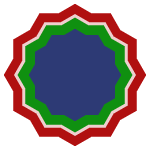
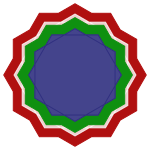
revisão de cores do logotipo

diff --git a/wingene-logo.html b/wingene-logo.html
@@ -8,7 +8,6 @@ title: "Wingene: os logotipos"
     <script src="gif.js"></script>
     <script type="application/javascript">
         /* 
-        - Fatores de aumento baseados em senos de números primos para harmonia natural.
         - Red (12/5): Valores (Base Ancestral)
         - Yellow (12/4): Imperfeições (Alerta)
         - Green (12/3): Decisões (Ação)
@@ -32,6 +31,8 @@ title: "Wingene: os logotipos"
         var angulo4 = 53;
         var angulo3 = 61;
         var angulo2 = 67;
+        // Fatores de aumento baseados no acorde de Dó Maior: CEGc.
+        // com c sendo o maior tamanho = 1 (12/5)
         var tamanhoFinal4 = calcSize(-5);
         var tamanhoFinal3 = calcSize(-8);
         var tamanhoFinal2 = calcSize(-12);
@@ -56,6 +57,7 @@ title: "Wingene: os logotipos"
             drawStar(ctx, 12, 5, size, 0, 1, red, center);
             drawStar(ctx, 12, 4, size * tamanhoFinal4, 15, 4, yellow, center);
             drawStar(ctx, 12, 3, size * tamanhoFinal3, 0, 3, green, center);
+            drawStar(ctx, 12, 2, size * tamanhoFinal2, 15, 2, "#ffffff", center);
             drawStar(ctx, 12, 2, size * tamanhoFinal2, 15, 2, blue, center, opacidadeAzul);
         }
         function downloadSVG() {
@@ -65,6 +67,7 @@ title: "Wingene: os logotipos"
             svg += '<path d="' + getStarPath(12, 5, size, 0, 1, center) + '" stroke="'+red+'" fill="'+red+'" opacity="1" />';       
             svg += '<path d="' + getStarPath(12, 4, size * tamanhoFinal4, 15, 4, center) + '" stroke="'+yellow+'" fill="'+yellow+'" opacity="1" />';
             svg += '<path d="' + getStarPath(12, 3, size * tamanhoFinal3, 0, 3, center) + '" stroke="'+green+'" fill="'+green+'" opacity="1" />';
+                svg += '<path d="' + getStarPath(12, 2, size * tamanhoFinal2, 15, 2, center) + '" stroke="#ffffff" fill="#ffffff" opacity="1" />';
             svg += '<path d="' + getStarPath(12, 2, size * tamanhoFinal2, 15, 2, center) + '" stroke="'+blue+'" fill="'+blue+'" opacity="'+opacidadeAzul+'" />';
             svg += '</svg>';
             var blob = new Blob([svg], {type: "image/svg+xml"});
@@ -87,6 +90,7 @@ title: "Wingene: os logotipos"
             drawStar(ctx, 12, tipoEstrelaSimples, size * fator5, 0, repeticaoEstrelaSimples, red, center);
             drawStar(ctx, 12, tipoEstrelaSimples, size * fator4, 0, repeticaoEstrelaSimples, white, center);
             drawStar(ctx, 12, tipoEstrelaSimples, size * fator3, 0, repeticaoEstrelaSimples, green, center);
+            drawStar(ctx, 12, tipoEstrelaSimples, size * fator2, 0, repeticaoEstrelaSimples, "#ffffff", center);
             drawStar(ctx, 12, tipoEstrelaSimples, size * fator2, 0, repeticaoEstrelaSimples, blue, center, opacidadeAzul);
             
             //drawStar(ctx, 12, 2, size * fator10, 0, 2, blue, center);
@@ -98,6 +102,7 @@ title: "Wingene: os logotipos"
             svg += '<path d="' + getStarPath(12, tipoEstrelaSimples, size * fator5, 0, repeticaoEstrelaSimples, center) + '" stroke="'+red+'" fill="'+red+'" />';       
             svg += '<path d="' + getStarPath(12, tipoEstrelaSimples, size * fator4, 0, repeticaoEstrelaSimples, center) + '" stroke="'+white+'" fill="'+white+'" />';
             svg += '<path d="' + getStarPath(12, tipoEstrelaSimples, size * fator3, 0, repeticaoEstrelaSimples, center) + '" stroke="'+green+'" fill="'+green+'" />';
+            svg += '<path d="' + getStarPath(12, tipoEstrelaSimples, size * fator2, 0, repeticaoEstrelaSimples, center) + '" stroke="#ffffff" fill="#ffffff" />';
             svg += '<path d="' + getStarPath(12, tipoEstrelaSimples, size * fator2, 0, repeticaoEstrelaSimples, center) + '" stroke="'+blue+'" fill="'+blue+'" opacity="'+opacidadeAzul+'" />';
             svg += '</svg>';
             var blob = new Blob([svg], {type: "image/svg+xml"});
@@ -226,6 +231,7 @@ title: "Wingene: os logotipos"
     // 3. Desenho das subestrelas animadas
     drawStar(ctx, 12, 4, size * s4, 15, 4, yellow, center);
     drawStar(ctx, 12, 3, size * s3, 0, 3, green, center);
+    drawStar(ctx, 12, 2, size * s2, 15, 2, "#ffffff", center);
     drawStar(ctx, 12, 2, size * s2, 15, 2, blue, center, opacidadeAzul);
 }
 

diff --git a/geometria/geometria-e-o-metodo-vida.md b/geometria/geometria-e-o-metodo-vida.md
@@ -21,7 +21,7 @@ Esse é o logotipo padrão da Wingene:
 
 <img src="/wingene.svg" alt="Logotipo padrão da Wingene" width="150" height="150">
 
-Ele representa os quatro eixos do acróstico [VIDA](/wingene/o-metodo-vida-a-wingene-em-pratica.html), sendo formado pelo dodecagrama e seus anéis poligonais, com tamanho aumentado. Cada estrela é preenchida com uma cor e sobreposta em sequência conforme abaixo:
+Ele representa os quatro eixos do acróstico [VIDA](/wingene/o-metodo-vida-a-wingene-em-pratica.html), sendo formado pelo dodecagrama e seus anéis poligonais, com tamanho aumentado de acordo com as frequências de um acorde de dó maior (CEGc). Cada estrela é preenchida com uma cor e sobreposta em sequência conforme abaixo:
 
 1. {12/5} - Vermelho: os valores éticos. O dodecagrama.
 
@@ -51,7 +51,7 @@ Para um ícone em tamanho reduzido, esse logotipo não é adequado. Então, foi 
 
 Na simplificação, o amarelo foi extirpado da imagem, sendo substituído por uma estrela branca com uma pequena opacidade. Apesar disso, a visualização à distância ou em tamanhos pequenos traz a ilusão subliminar do amarelo entre o verde e o vermelho. Um alerta para a dificuldade pessoal em reconhecer as imperfeições. Muitas vezes, tão nítidas para quem observa de fora.
 
-Este é o ícone reduzido, onde é possível ver o halo amarelo subliminar: <span><img src="./wingene-simplified.png" alt="Logotipo simplificado da Wingene" width="50" height="50"></span>
+Este é o ícone reduzido, onde é possível ver o halo amarelo subliminar: <span><img src="./wingene-simplified.png" alt="Logotipo simplificado da Wingene" width="45" height="45"></span>
 
 ### A harmonia matemática
 
